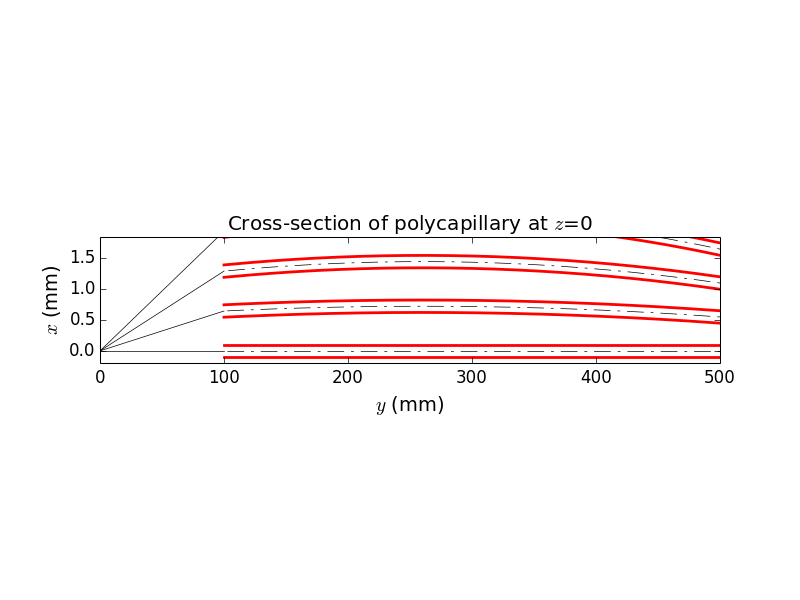
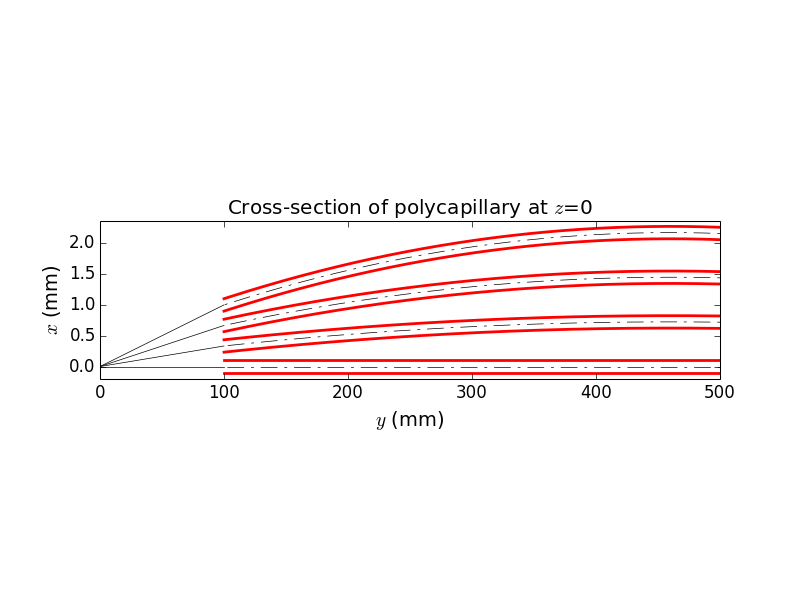
small bend, focus still not observed

Changed region(s): [[0.0938, 0.33, 0.9375, 0.66], [0.4688, 0.66, 0.5625, 0.72], [0.25, 0.39, 0.2812, 0.42]]

diff --git a/myCapillary0A.py b/myCapillary0A.py
@@ -49,7 +49,7 @@ class BentCapillary(roe.OE):
         self.isParametric = True
 
     def local_x0(self, s):  # axis of capillary, x(s)
-        return self.a0 * (s-240)**2 + self.b0
+        return self.a0 * (s-40)**2 + self.b0
 
     def local_x0Prime(self, s):
         return 2 * self.a0 * s
